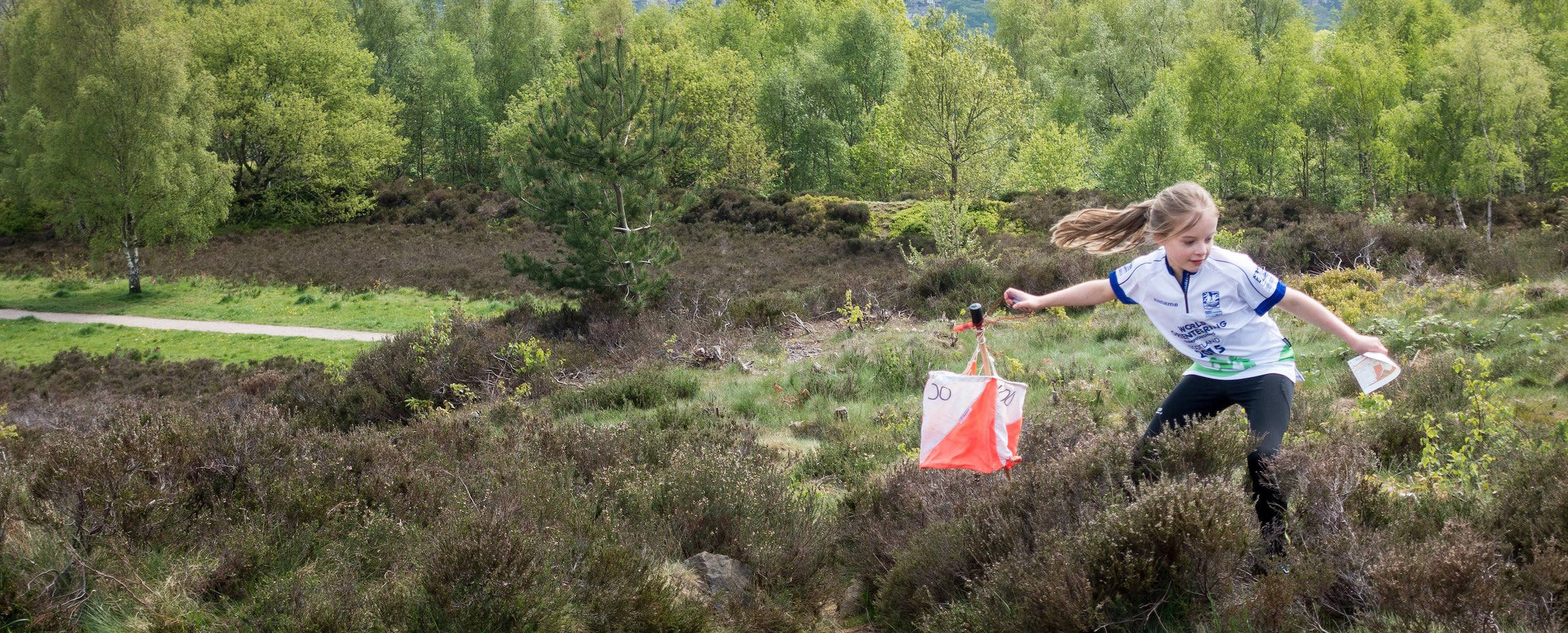
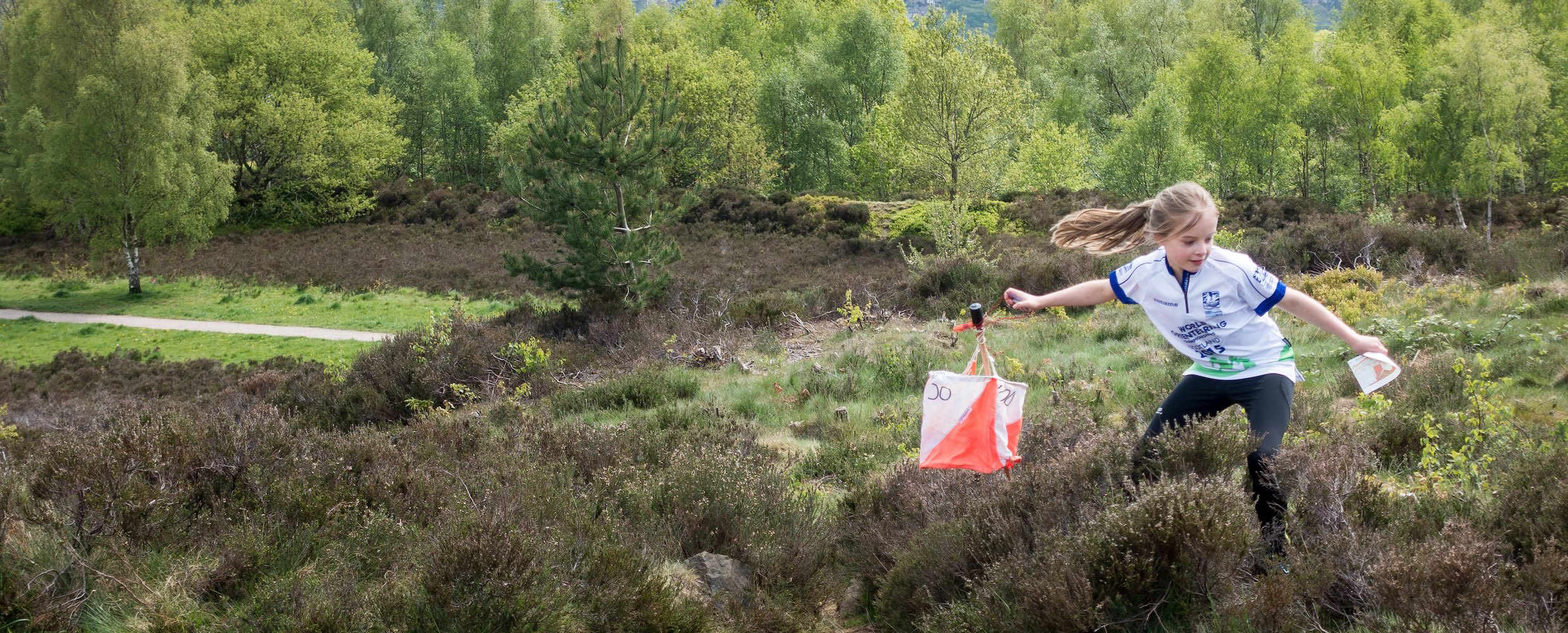
Added new header image & optimised current images

diff --git a/templates/syo/index.php b/templates/syo/index.php
@@ -17,8 +17,8 @@ if (is_object($menu)) {
 }
 
 // Get the image used for the banner
-$imageNames = array('P1020182.jpg', 'BOC_2015_RL.jpg', 'BRC_2012_MW.jpg', 'LOXLEY_2016_RB.jpg');
-$imageCapts = array('World Orienteering Championships 2015 - Nairn, Scotland', 'British Sprint Orienteering Championships 2015 - Aldershot Garrison, Hampshire (&copy; Robert Lines)', 'British Relay Championships 2012 - Helsington Barrows, Cumbria (&copy; Martin Ward)', 'SYO Coaching Session - Loxely Common, Sheffield (&copy; Richard Baxter)');
+$imageNames = array('CSC_2017_LG.jpg', 'P1020182.jpg', 'BOC_2015_RL.jpg', 'BRC_2012_MW.jpg', 'LOXLEY_2016_RB.jpg');
+$imageCapts = array('CompassSport Cup Final 2017 - Virtuous Lady, Devon (&copy; Louise Garnett)', 'World Orienteering Championships 2015 - Nairn, Scotland', 'British Sprint Orienteering Championships 2015 - Aldershot Garrison, Hampshire (&copy; Robert Lines)', 'British Relay Championships 2012 - Helsington Barrows, Cumbria (&copy; Martin Ward)', 'SYO Coaching Session - Loxely Common, Sheffield (&copy; Richard Baxter)');
 $randIndex  = array_rand($imageNames);
 
 // Remove deprecated meta-data (HTML5)
